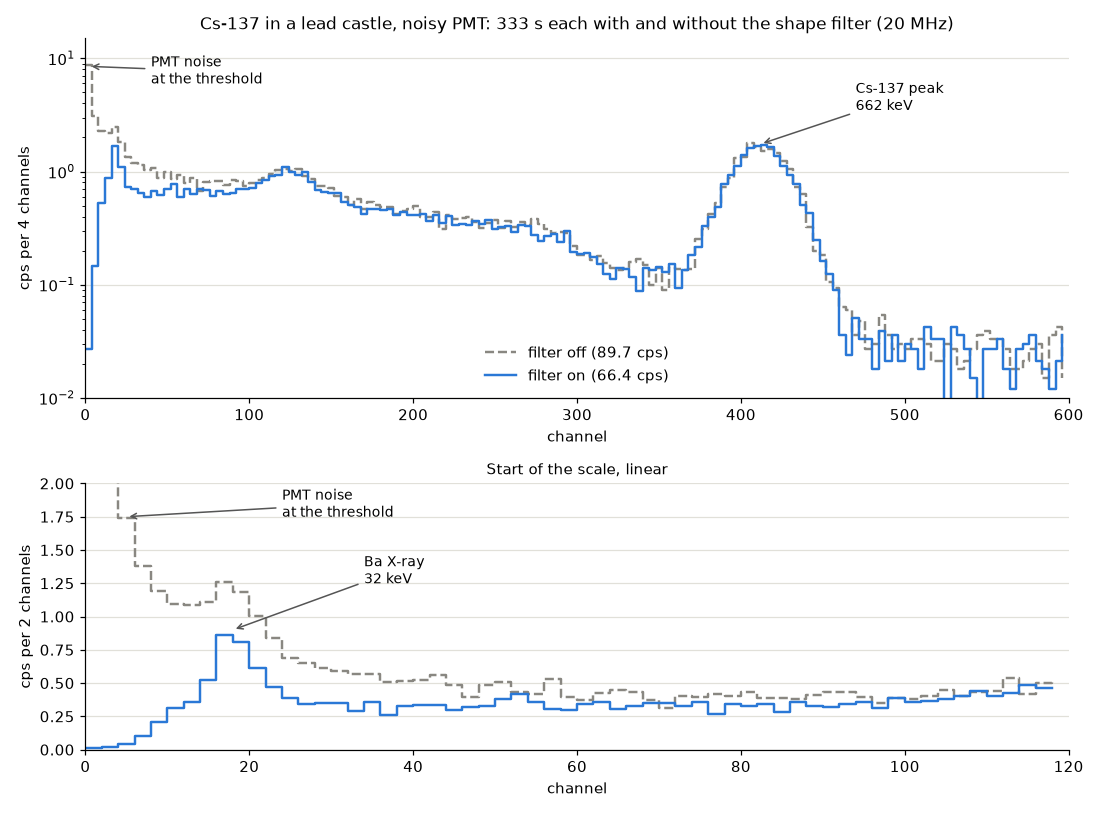
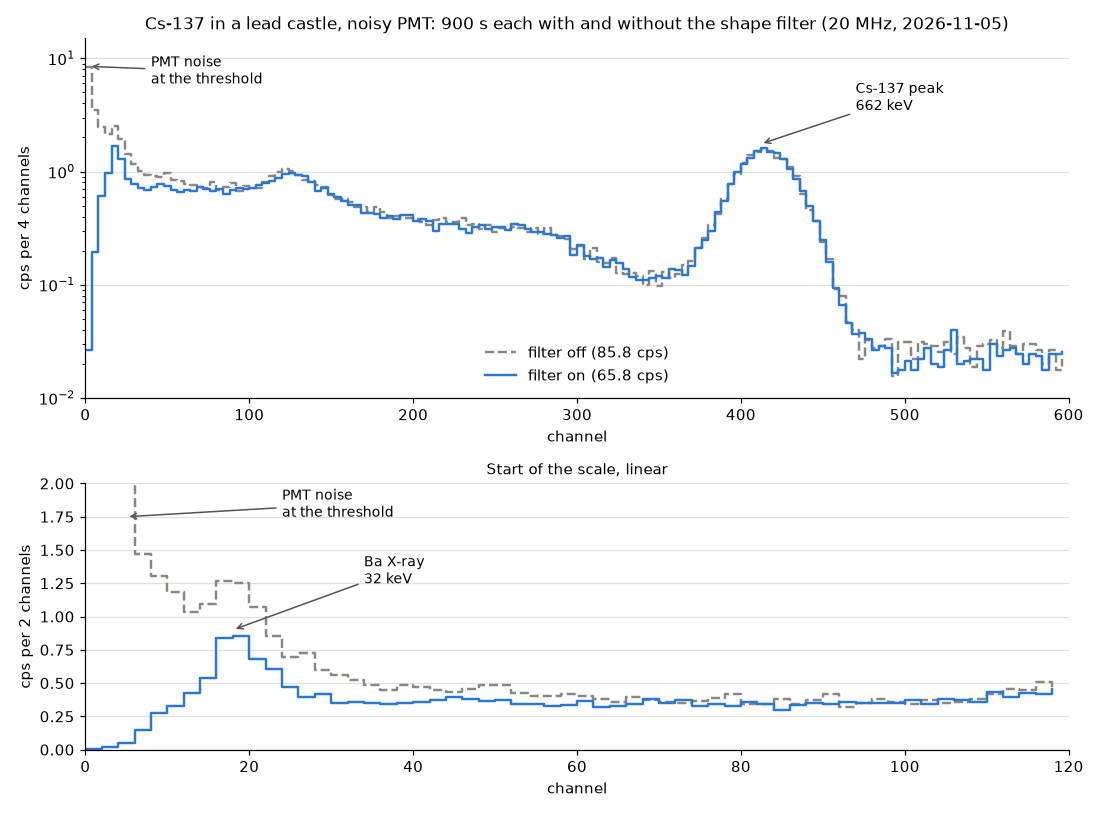
README: проверка фильтра формы на Cs-137 после правки базы ширины, по 900 с, новый график спектра

diff --git a/README.md b/README.md
@@ -467,30 +467,37 @@ v1.2.0 и раньше эталон надо набрать заново: шир
 Эталон набирается только из идущего набора: после перезагрузки сначала
 «Старт».
 
-**Проверка на приборе** (2026-11-04): шумный ФЭУ, слабый Cs-137 в свинцовом
-домике, 20 МГц, трапеция L = 10, G = 51, порог 16, допуск 32 %; по 333 с с
-фильтром и без, спектр сброшен перед каждым набором. *Это замер до правки
-базы ширины (см. «Найденное при отладке», «Фильтр формы импульса»): тогда
-фильтр отбрасывал и часть настоящих малых импульсов, поэтому у рентгена
-бария и в каналах 26–99 потери в таблице выше настоящих. На Cs-137 после
-правки заново не проверялось.*
+**Проверка на приборе** (2026-11-05): шумный ФЭУ, слабый Cs-137 в свинцовом
+домике, 20 МГц, трапеция L = 10, G = 51, порог 16, окно 13 + 36, допуск
+32 %; эталон набран заново, по 900 с с фильтром и без, спектр сброшен перед
+каждым набором. Рядом — тот же замер до правки базы ширины (2026-11-04, по
+333 с, те же настройки, источник лежал почти так же — пик 662 кэВ без
+фильтра 16.9 и 16.1 имп/с).
 
 ![Спектр Cs-137 с фильтром формы и без](docs/shape-filter-spectrum.png)
 
-| Каналы | Без фильтра, имп/с | С фильтром, имп/с | Осталось |
-|---|---|---|---|
-| до 12 (у порога) | 14.17 ± 0.21 | 0.70 | 5 % |
-| 12–25 (рентген Ba 32 кэВ) | 7.17 ± 0.15 | 4.03 | 56 % |
-| 26–99 | 16.73 ± 0.22 | 12.33 | 74 % |
-| 100–369 (Комптон) | 29.07 ± 0.30 | 27.30 | 94 % |
-| 370–454 (пик 662 кэВ) | 18.30 ± 0.23 | 18.02 | 98.5 % |
-| выше пика | 4.27 ± 0.11 | 4.01 | 94 % |
+| Каналы | Без фильтра, имп/с | С фильтром, имп/с | Осталось | До правки базы |
+|---|---|---|---|---|
+| до 12 (у порога) | 14.45 ± 0.13 | 0.82 | 6 % | 5 % |
+| 12–25 (рентген Ba 32 кэВ) | 7.27 ± 0.09 | 4.42 | 61 % | 56 % |
+| 26–99 | 15.67 ± 0.13 | 13.06 | 83 % | 74 % |
+| 100–369 (Комптон) | 26.98 ± 0.17 | 26.26 | 97 % | 94 % |
+| 370–454 (пик 662 кэВ) | 17.24 ± 0.14 | 17.30 | 100 % | 98.5 % |
+| выше пика | 4.16 ± 0.07 | 3.92 | 94 % | 94 % |
 
-Без фильтра рентген бария (32 кэВ) тонул в шуме у порога, с фильтром — это
-отдельный пик (пик / долина 2.04 → 2.39). Пик 662 кэВ почти не тронут:
-по гауссу 16.92 → 16.56 имп/с (−2 %), разрешение 9.57 → 9.43 %. Всего
-отброшено 25 % импульсов. Потерь чанков нет, загрузка ядра 84 % в обоих
-наборах.
+Без фильтра рентген бария (32 кэВ) тонет в шуме у порога, с фильтром — это
+отдельный пик (по гауссу 2.35 имп/с, до правки 2.26). Пик 662 кэВ фильтр
+теперь не трогает вовсе: по гауссу 16.12 → 15.87 имп/с, разрешение 9.94 →
+9.65 %. Всего отброшено 23 % импульсов (до правки 25 %). Потерь чанков нет.
+
+Почему правка дала здесь меньше, чем на Ra-226: в этой проверке окно «до
+вершины» 13, а не 10, и прежняя база (8 отсчётов перед окном, 13–21 отсчёт
+до вершины) реже доставала до фронта. Модель на сырых кадрах Ra-226 с этими
+же настройками: прежняя база отбрасывала 6.5 % событий, новая — 2.9 %, выше
+160 каналов 1.4 % и 0.2 % — как у пика 662 кэВ на приборе. То, что фильтр и
+теперь убирает в каналах 12–99, — в основном шум этого ФЭУ (на Ra-226 у
+настоящих импульсов этой высоты потери 1–7 %); долю настоящих импульсов на
+Cs-137 напрямую не мерили — для сырых кадров источник слишком слабый.
 
 ![Форма импульсов: эталон, принятые и отброшенные](docs/shape-filter-pulses.png)
 

diff --git a/README.en.md b/README.en.md
@@ -495,30 +495,40 @@ both integration and the trapezoid — see “Findings from debugging”,
 “Convolution with the reference: model versus device”. The reference is
 learned only from running acquisition: after a reboot press “Start” first.
 
-**Check on the device** (2026-11-04): noisy PMT, weak Cs-137 in a lead
-castle, 20 MHz, trapezoid L = 10, G = 51, threshold 16, tolerance 32 %; 333 s
-each with and without the filter, the spectrum reset before each run. *This
-was measured before the width baseline fix (see “Findings from debugging”,
-“Pulse shape filter”): the filter then also rejected some real small
-pulses, so the losses in the table for the barium X-ray and channels 26–99
-are larger than they really are. Not rechecked on Cs-137 after the fix.*
+**Check on the device** (2026-11-05): noisy PMT, weak Cs-137 in a lead
+castle, 20 MHz, trapezoid L = 10, G = 51, threshold 16, window 13 + 36,
+tolerance 32 %; reference learned anew, 900 s each with and without the
+filter, the spectrum reset before each run. Alongside — the same measurement
+before the width baseline fix (2026-11-04, 333 s each, same settings, the
+source placed nearly the same — 662 keV peak without the filter 16.9 and
+16.1 cps).
 
 ![Cs-137 spectrum with and without the shape filter](docs/shape-filter-spectrum.en.png)
 
-| Channels | Without filter, cps | With filter, cps | Kept |
-|---|---|---|---|
-| below 12 (at the threshold) | 14.17 ± 0.21 | 0.70 | 5 % |
-| 12–25 (Ba X-ray 32 keV) | 7.17 ± 0.15 | 4.03 | 56 % |
-| 26–99 | 16.73 ± 0.22 | 12.33 | 74 % |
-| 100–369 (Compton) | 29.07 ± 0.30 | 27.30 | 94 % |
-| 370–454 (662 keV peak) | 18.30 ± 0.23 | 18.02 | 98.5 % |
-| above the peak | 4.27 ± 0.11 | 4.01 | 94 % |
+| Channels | Without filter, cps | With filter, cps | Kept | Before the baseline fix |
+|---|---|---|---|---|
+| below 12 (at the threshold) | 14.45 ± 0.13 | 0.82 | 6 % | 5 % |
+| 12–25 (Ba X-ray 32 keV) | 7.27 ± 0.09 | 4.42 | 61 % | 56 % |
+| 26–99 | 15.67 ± 0.13 | 13.06 | 83 % | 74 % |
+| 100–369 (Compton) | 26.98 ± 0.17 | 26.26 | 97 % | 94 % |
+| 370–454 (662 keV peak) | 17.24 ± 0.14 | 17.30 | 100 % | 98.5 % |
+| above the peak | 4.16 ± 0.07 | 3.92 | 94 % | 94 % |
 
-Without the filter the barium X-ray (32 keV) drowned in the noise at the
-threshold; with the filter it is a separate peak (peak / valley 2.04 → 2.39).
-The 662 keV peak is almost untouched: by a Gaussian fit 16.92 → 16.56 cps
-(−2 %), resolution 9.57 → 9.43 %. In total 25 % of pulses are rejected. No
-chunk losses, core load 84 % in both runs.
+Without the filter the barium X-ray (32 keV) drowns in the noise at the
+threshold; with the filter it is a separate peak (Gaussian fit 2.35 cps,
+2.26 before the fix). The filter now does not touch the 662 keV peak at all:
+by a Gaussian fit 16.12 → 15.87 cps, resolution 9.94 → 9.65 %. In total 23 %
+of pulses are rejected (25 % before the fix). No chunk losses.
+
+Why the fix gave less here than on Ra-226: this check has a “before peak”
+window of 13, not 10, and the old baseline (8 samples before the window,
+13–21 samples before the peak) reached the rise less often. The model on raw
+Ra-226 frames with these same settings: the old baseline rejected 6.5 % of
+events, the new one 2.9 %, above channel 160 1.4 % and 0.2 % — as for the
+662 keV peak on the device. What the filter still removes in channels 12–99
+is mostly the noise of this PMT (on Ra-226 real pulses of this height lose
+1–7 %); the share of real pulses on Cs-137 was not measured directly — the
+source is too weak for raw frames.
 
 ![Pulse shape: reference, accepted and rejected](docs/shape-filter-pulses.en.png)
 
